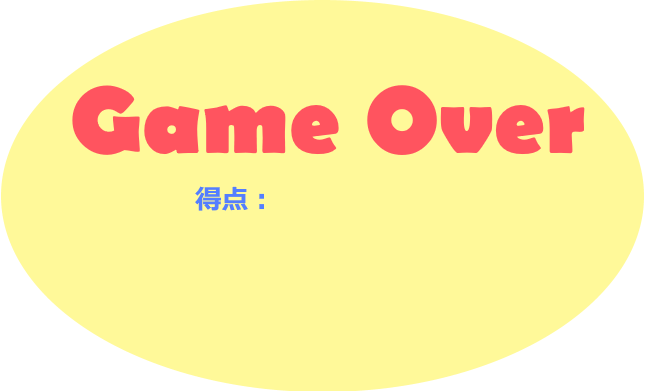
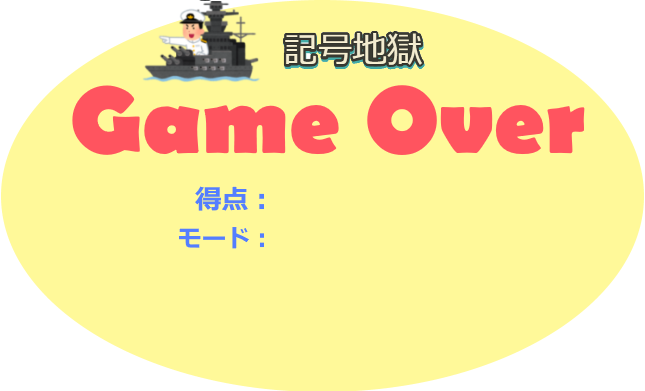
Hardモード追加、GameOver画像変更

Changed region(s): [[0.2171, 0.0, 0.4031, 0.2148], [0.4341, 0.0614, 0.6822, 0.1841], [0.2791, 0.5831, 0.4031, 0.6445]]

diff --git a/src/scenes/MainScene.ts b/src/scenes/MainScene.ts
@@ -36,12 +36,13 @@ class MainScene extends Phaser.Scene {
     }
 
     init(data: any) {
+        this.st = this.initStatus()
         this.imgs = data.imgs
+        this.st!.speed = data.speed
     }
 
     preload() {
         this.imgs!.loadMain(this)
-        this.st = this.initStatus()
         this.walls = this.physics.add.staticGroup()
         this.chrs = this.physics.add.group()
         this.ballets = this.physics.add.group({ classType: Bullet, runChildUpdate: true })
@@ -94,12 +95,15 @@ class MainScene extends Phaser.Scene {
         this.senkan?.anims.play('senkan_death')
         this.st!.gameOver = true
         this.time.delayedCall(1000 , () => {
+            const textStyle = { fontSize: '30px', fontStyle: 'bold', color: '#547EFF', fontFamily: 'メイリオ' }
             this.add.image(400, 300, 'gameover')
-            this.add.text(385, 285, String(this.st!.score), { fontSize: '30px', fontStyle: 'bold', color: '#547EFF', fontFamily: 'メイリオ' }).setOrigin(0)
-            this.add.image(280, 400, 'btn_retry').setInteractive().once('pointerup', () => {
+
+            this.add.text(385, 285, String(this.st!.score), textStyle).setOrigin(0)
+            this.add.text(385, 324, this.st!.speed === 100 ? 'Hard': 'Easy', textStyle).setOrigin(0)
+            this.add.image(280, 410, 'btn_retry').setInteractive().once('pointerup', () => {
                 this.scene.restart()
             })
-            this.add.image(520, 400, 'btn_title').setInteractive().once('pointerup', () => {
+            this.add.image(520, 410, 'btn_title').setInteractive().once('pointerup', () => {
                 this.scene.start('titlescene')
             })
         })

diff --git a/src/core/ImgHolder.ts b/src/core/ImgHolder.ts
@@ -8,7 +8,8 @@ import imgRed from "../../assets/red.png"
 import imgBullet from "../../assets/star.png"
 import imgSenkan from "../../assets/senkan_sp.png"
 import imgTitle from "../../assets/title.png"
-import imgBtnStart from "../../assets/start.png"
+import imgBtnEasy from "../../assets/start_easy.png"
+import imgBtnHard from "../../assets/start_hard.png"
 import imgGameOver from "../../assets/gameover.png"
 import imgBtnTitle from "../../assets/btn_title.png"
 import imgBtnRetry from "../../assets/btn_retry.png"
@@ -130,7 +131,8 @@ class ImgHolder {
         scene.load.image('line', imgLine)
         scene.load.image('title', imgTitle)
         scene.load.image('tag', imgTag)
-        scene.load.image('btn_start', imgBtnStart)
+        scene.load.image('btn_easy', imgBtnEasy)
+        scene.load.image('btn_hard', imgBtnHard)
     }
 }
 export default ImgHolder

diff --git a/src/scenes/TitleScene.ts b/src/scenes/TitleScene.ts
@@ -22,10 +22,13 @@ class TitleScene extends Phaser.Scene {
         this.add.image(400, 600, "line")
         this.add.image(400, 300, 'title')
         this.add.image(730, 585, "tag")
-        
-        const btnStart = this.add.image(400, 500, 'btn_start').setInteractive()
 
-        btnStart.once('pointerup', () => {
+        this.add.image(280, 500, 'btn_easy').setInteractive().once('pointerup', () => {
+            data.speed = 20
+            this.scene.start('mainscene', data)
+        })
+        this.add.image(530, 500, 'btn_hard').setInteractive().once('pointerup', () => {
+            data.speed = 100
             this.scene.start('mainscene', data)
         })
     }
